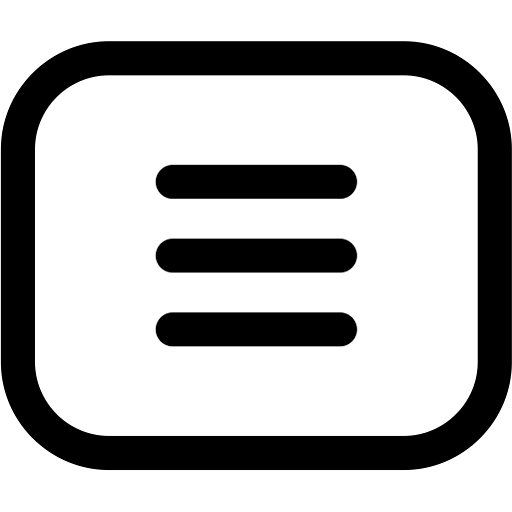
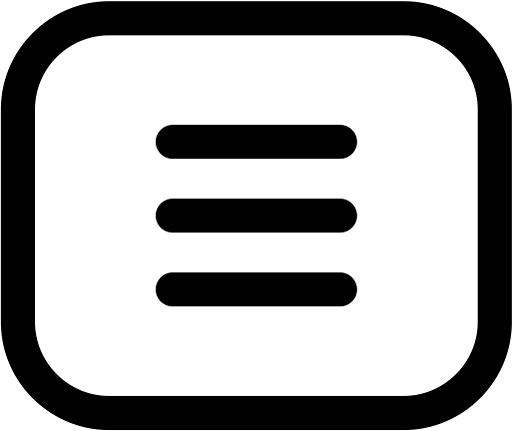
Navbar improvements

diff --git a/scripts/fuelcomponents/navbar.py b/scripts/fuelcomponents/navbar.py
@@ -21,42 +21,52 @@ def generate_navbar():
             children=[
                 dbc.Row([
                     dbc.Col(
-                        dbc.Button("Open OffCanvas", 
+                        dbc.Button(
+                            children=[
+                                html.Img(
+                                    src="/assets/menu-bar-icon.png",
+                                   style={"max-height":"30px"},  # Adjust image height as needed
+                                    # className="me-2", # Add some margin to the right of the image
+                                ),
+                                # "Download", # You can still have text next to the image
+                            ],
                                 id="open-offcanvas-scrollable",
                                 n_clicks=0,
-                                outline=True, 
-                                color="light",
-                                className="ms-2",
+                                outline=False, 
+                                color="secondary",
+                                className="p-0 m-0",
+                                style={"border-radius":"10px"}
                                 ),
                     width="auto"),
-                    dbc.Col(dbc.NavbarBrand("Histórico de preços", className="ms-2")),
-                    ], align="center", className="g-2"
+                    dbc.Col(dbc.NavbarBrand("Histórico de preços", className="ms-2", style={"max-height":"30px"})),
+                    ], align="center", className="g-0"
                 ),
-                # dbc.NavItem(dbc.NavLink("Home", href="/")),
-                # dbc.NavItem(dbc.NavLink("Sobre", href="/about")),
-                # dbc.DropdownMenu(
-                #     children=[
-                #         dbc.DropdownMenuItem("More pages", header=True),
-                #         dbc.DropdownMenuItem("Page 1", href="/page1"),
-                #         dbc.DropdownMenuItem("Page 2", href="/page2"),
-                #     ],
-                #     nav=True,
-                #     in_navbar=True,
-                #     label="Mais",
-                #     align_end=True
-                # ),
+                dbc.NavItem(dbc.NavLink("Home", href="/")),
+                dbc.NavItem(dbc.NavLink("Sobre", href="/about")),
+                dbc.DropdownMenu(
+                    children=[
+                        dbc.DropdownMenuItem("More pages", header=True),
+                        dbc.DropdownMenuItem("Page 1", href="/page1"),
+                        dbc.DropdownMenuItem("Page 2", href="/page2"),
+                    ],
+                    nav=True,
+                    in_navbar=True,
+                    label="Mais",
+                    align_end=True
+                ),
             # offcanvas
             offcanvas.generate_offcanvas()
             ],
-        fluid=True),
+        fluid=True,
+        style={"min-height":"40px", "max-height":"40px"}
+        ),
         # brand="Combustíveis - histórico de preços",
         # brand_href="/",
         color="rgb(50, 56, 62)",
         dark=True,
         fixed="top",  # <<< This makes the navbar fixed at the top
         # className="mb-4", # Add margin-bottom for spacing below the navbar
-        # fluid=True
-    )
+    style={"max-height":"50px"} )
     return navbar
 
 @callback(
